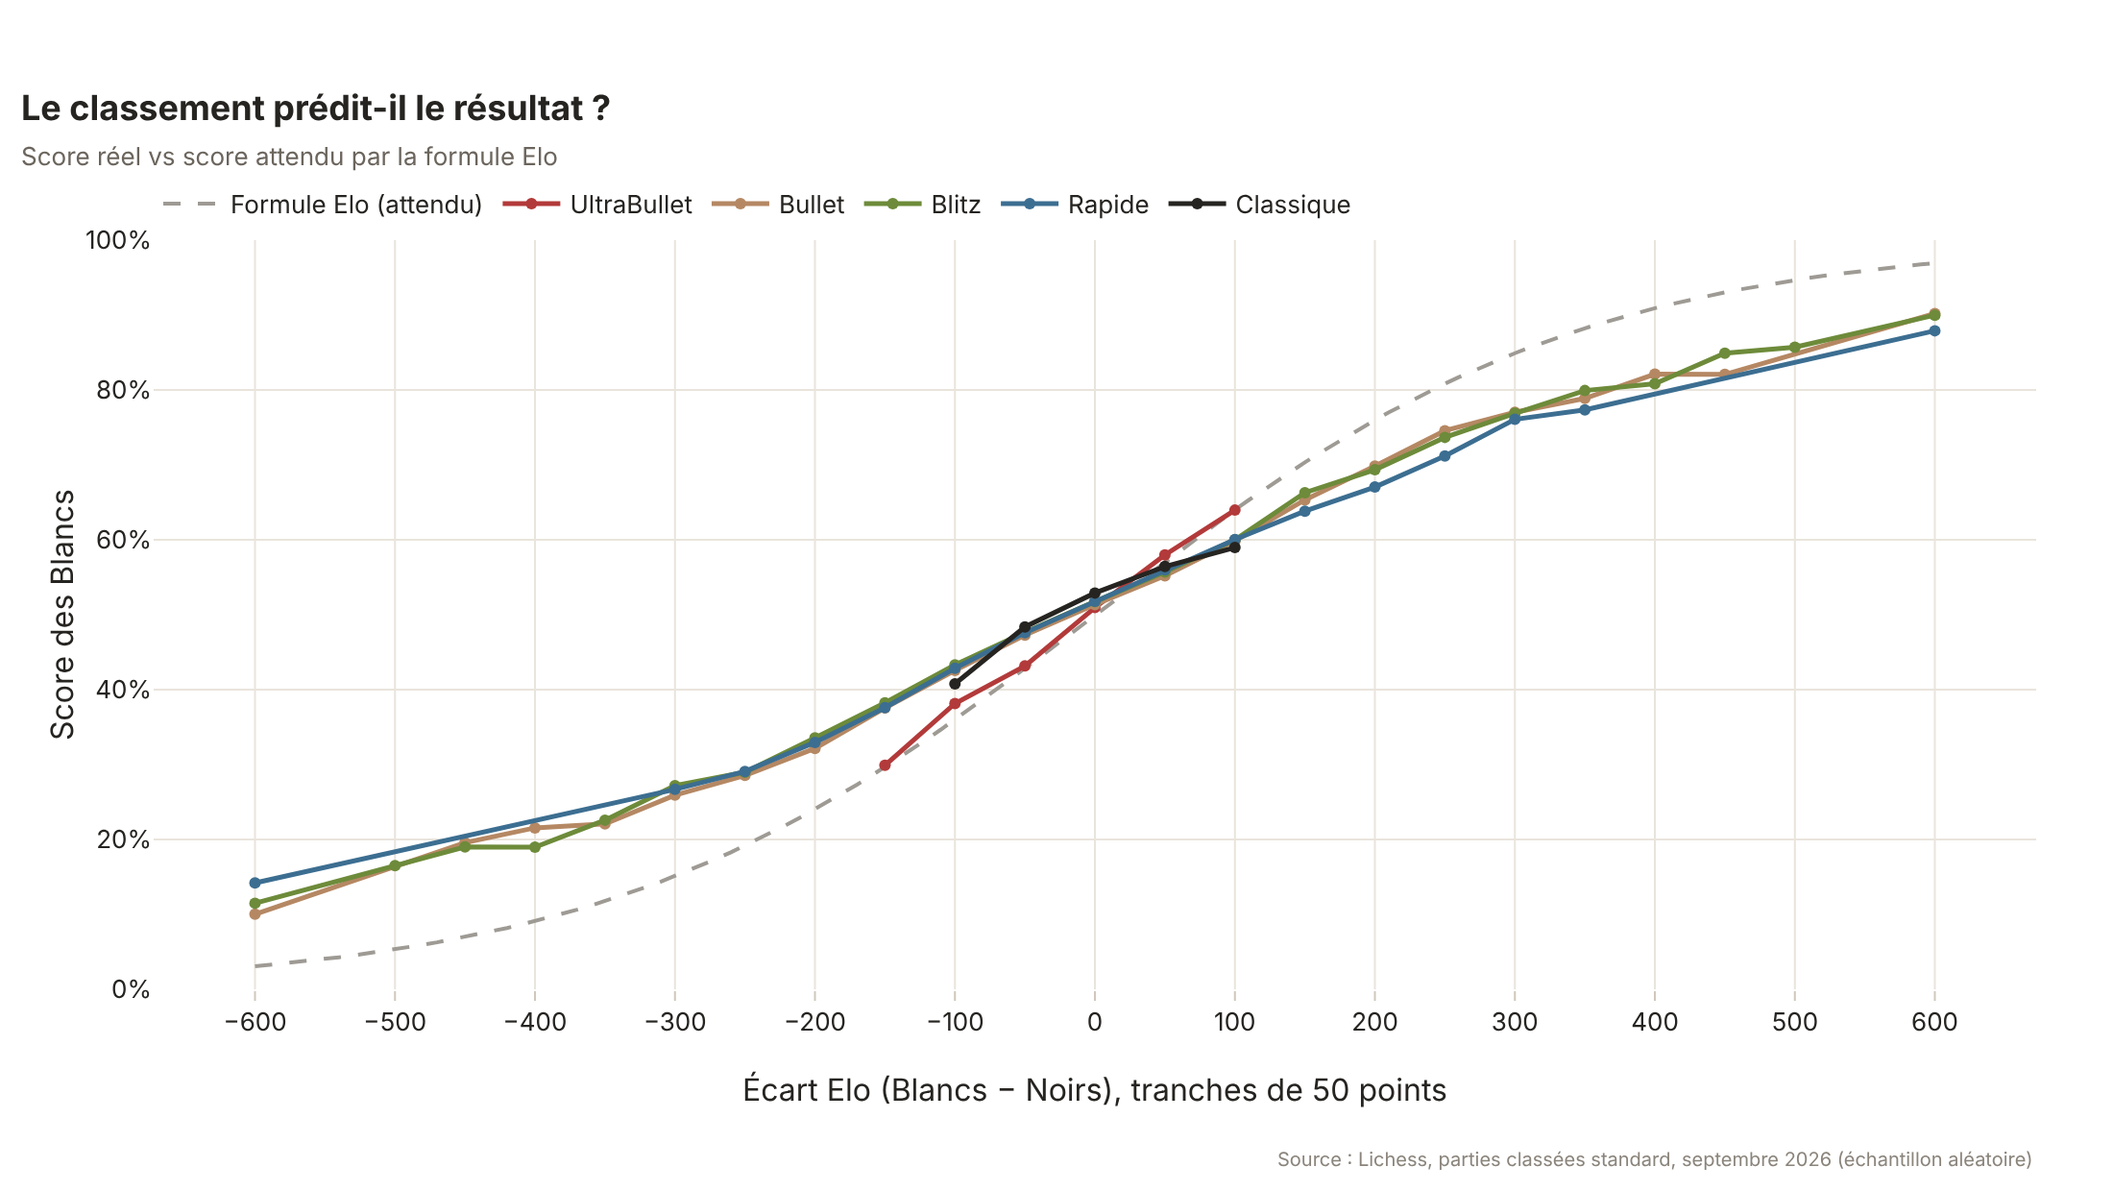
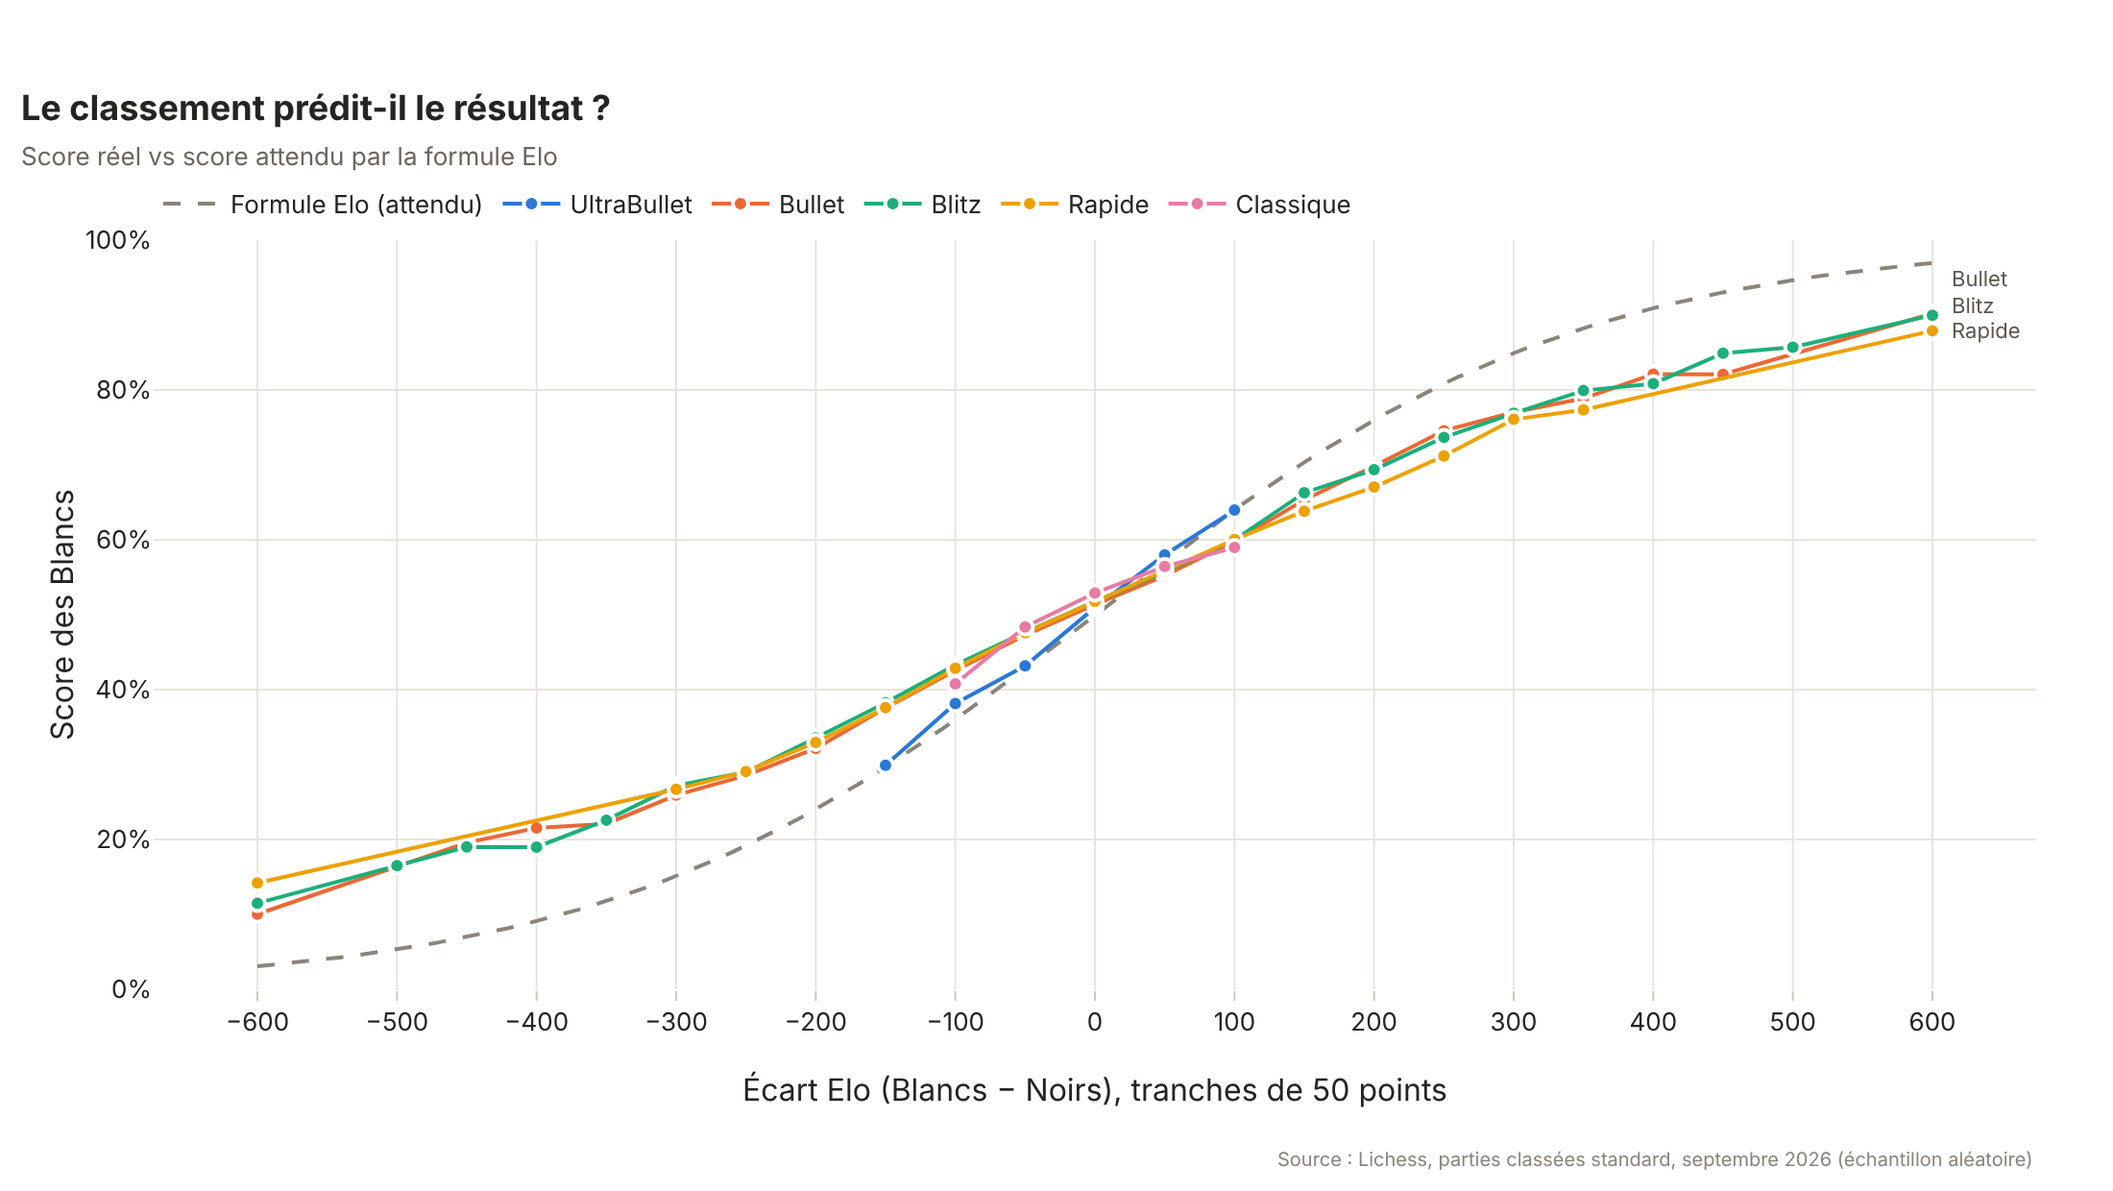
feat: switch charts to a colour-blind-safe palette without dual axes

diff --git a/src/eloscope/charts.py b/src/eloscope/charts.py
@@ -10,22 +10,26 @@ import plotly.graph_objects as go
 import plotly.io as pio
 from plotly.subplots import make_subplots
 
-# Palette shared with powerbi/theme.json
-INK = "#262421"  # near-black (Black pieces / text)
-DARK_SQUARE = "#B58863"  # Lichess dark square
-LIGHT_SQUARE = "#F0D9B5"  # Lichess light square
-GREEN = "#6D8B3A"  # accent
-GREY = "#9E9A94"  # draws
-RED = "#B33A3A"  # losses on time / alerts
-BLUE = "#3C6E91"  # secondary series
-PAPER = "#FFFFFF"
-GRID = "#E9E4DC"
+# Colours. Chrome (paper, ink, grid) carries the chessboard identity; data colours are checked
+# for colour-vision deficiency, lightness band and contrast (see docs/design.md).
+INK = "#262421"  # primary text
+INK_2 = "#5c574f"  # secondary text
+MUTED = "#8a847b"  # axis labels, notes, reference lines
+DARK_SQUARE = "#b58863"  # Lichess dark square: single-series accent
+LIGHT_SQUARE = "#f0d9b5"  # Lichess light square: chrome only, never a data colour
+PAPER = "#ffffff"
+GRID = "#e9e4dc"
 
-RESULT_COLORS = {"Victoire Blancs": DARK_SQUARE, "Nulle": GREY, "Victoire Noirs": INK}
-TC_COLORS = {"UltraBullet": RED, "Bullet": DARK_SQUARE, "Blitz": GREEN, "Rapide": BLUE, "Classique": INK}
-BAND_COLORS = {"< 1200": LIGHT_SQUARE, "1200-1599": DARK_SQUARE, "1600-1999": GREEN, "2000+": INK}
-SEQUENTIAL = [[0.0, "#FBF6EE"], [0.35, LIGHT_SQUARE], [0.7, DARK_SQUARE], [1.0, "#5C3B22"]]
-DIVERGING = [[0.0, BLUE], [0.5, "#F7F4EF"], [1.0, DARK_SQUARE]]
+# Categorical slots, fixed order (never cycled). Time controls take them by speed.
+SERIES = ["#2a78d6", "#eb6834", "#1baf7a", "#eda100", "#e87ba4"]
+TC_COLORS = dict(zip(["UltraBullet", "Bullet", "Blitz", "Rapide", "Classique"], SERIES))
+# Results are a polarity: White pole (warm) / neutral draw / Black pole (cool).
+WHITE_POLE, DRAW_MID, BLACK_POLE = "#c8732a", "#d3d1cb", "#2a5a9a"
+RESULT_COLORS = {"Victoire Blancs": WHITE_POLE, "Nulle": DRAW_MID, "Victoire Noirs": BLACK_POLE}
+# Elo bands are ordered: one brown ramp, light to dark (ordinal check passed).
+BAND_COLORS = dict(zip(["< 1200", "1200-1599", "1600-1999", "2000+"], ["#d2a679", "#b07d4f", "#86562d", "#5a3518"]))
+SEQUENTIAL = [[0.0, "#f7f1e8"], [0.35, "#d2a679"], [0.7, "#86562d"], [1.0, "#4a2b12"]]
+DIVERGING = [[0.0, BLACK_POLE], [0.5, "#f0efec"], [1.0, WHITE_POLE]]  # < 50 % Black, > 50 % White
 
 pio.templates["eloscope"] = go.layout.Template(
     layout=go.Layout(
@@ -33,7 +37,7 @@ pio.templates["eloscope"] = go.layout.Template(
         title=dict(font=dict(size=18, color=INK), x=0.01, xanchor="left"),
         paper_bgcolor=PAPER,
         plot_bgcolor=PAPER,
-        colorway=[DARK_SQUARE, INK, GREEN, BLUE, RED, GREY],
+        colorway=SERIES,
         xaxis=dict(gridcolor=GRID, linecolor="#CFC8BC", zeroline=False, ticks="outside", tickcolor="#CFC8BC"),
         yaxis=dict(gridcolor=GRID, linecolor="#CFC8BC", zeroline=False),
         legend=dict(bgcolor="rgba(0,0,0,0)", orientation="h", yanchor="bottom", y=1.01, xanchor="left", x=0),
@@ -62,6 +66,25 @@ def save(fig: go.Figure, path: Path, width: int = 1100, height: int = 620) -> Pa
     return path
 
 
+def _end_labels(
+    fig: go.Figure,
+    points: list[tuple[float, float, str]],
+    min_gap: float,
+    row: int | None = None,
+    col: int | None = None,
+) -> None:
+    """Direct labels at line ends (identity never relies on colour alone), nudged apart vertically."""
+    kwargs = {"row": row, "col": col} if row else {}
+    placed: list[float] = []
+    for x, y, text in sorted(points, key=lambda p: p[1]):
+        y_label = max([y, *[p + min_gap for p in placed]]) if placed else y
+        placed.append(y_label)
+        fig.add_annotation(
+            x=x, y=y_label, text=text, showarrow=False, xanchor="left", xshift=8,
+            font=dict(size=11, color=INK_2), **kwargs,
+        )  # fmt: skip
+
+
 def results_by_band(df: pd.DataFrame) -> go.Figure:
     """Stacked 100 % bars of White win / draw / Black win per Elo band."""
     fig = go.Figure()
@@ -72,40 +95,43 @@ def results_by_band(df: pd.DataFrame) -> go.Figure:
     ]:
         fig.add_bar(
             x=df["elo_band"], y=df[col], name=label, marker_color=RESULT_COLORS[label],
-            text=[f"{v:.1%}" for v in df[col]], textposition="inside",
-            insidetextfont=dict(color="white" if label != "Nulle" else INK),
+            marker_line=dict(color=PAPER, width=2), text=[f"{v:.1%}" for v in df[col]], textposition="inside",
+            insidetextfont=dict(color=INK if label == "Nulle" else "white"),
+            hovertemplate=f"{label}<br>%{{x}} : %{{y:.1%}}<extra></extra>",
         )  # fmt: skip
     fig.update_layout(
-        barmode="stack", yaxis=dict(tickformat=".0%", title="Part des parties"), xaxis_title="Tranche Elo"
-    )
+        barmode="stack", bargap=0.35, uniformtext=dict(minsize=12, mode="show"),
+        yaxis=dict(tickformat=".0%", title="Part des parties"), xaxis_title="Tranche Elo",
+    )  # fmt: skip
     return _finish(fig, "Répartition des résultats par niveau", "Les Blancs gagnent plus souvent à tous les niveaux")
 
 
 def top_openings(df: pd.DataFrame, bands: list[str], top: int = 10) -> go.Figure:
-    """Top opening families per band: popularity (bar length) coloured by White's score."""
+    """Top opening families per band: popularity (bar length) coloured by White's score around 50 %."""
     fig = make_subplots(
         rows=2, cols=2, subplot_titles=[f"Elo {b}" for b in bands], horizontal_spacing=0.3, vertical_spacing=0.1
     )
-    vmin, vmax = df["white_score"].min(), df["white_score"].max()
+    spread = float((df["white_score"] - 0.5).abs().max())
     for i, band in enumerate(bands):
         sub = df[df["elo_band"] == band].nsmallest(top, "popularity_rank").iloc[::-1]
         fig.add_bar(
             x=sub["share_of_band"], y=sub["opening_family"], orientation="h", row=i // 2 + 1, col=i % 2 + 1,
-            marker=dict(color=sub["white_score"], colorscale=SEQUENTIAL, cmin=vmin, cmax=vmax,
+            marker=dict(color=sub["white_score"], colorscale=DIVERGING, cmin=0.5 - spread, cmax=0.5 + spread,
                         colorbar=dict(title="Score<br>Blancs", tickformat=".0%") if i == 0 else None,
-                        showscale=i == 0),
+                        showscale=i == 0, line=dict(color=PAPER, width=2)),
             text=[f"{s:.1%}" for s in sub["share_of_band"]], textposition="outside", showlegend=False,
-            hovertemplate="%{y}<br>%{x:.1%} des parties<extra></extra>",
+            customdata=sub["white_score"],
+            hovertemplate="%{y}<br>%{x:.1%} des parties<br>score des Blancs %{customdata:.1%}<extra></extra>",
         )  # fmt: skip
     fig.update_xaxes(
         tickformat=".0%", showgrid=False, showticklabels=False, range=[0, df["share_of_band"].max() * 1.22]
     )
     fig.update_yaxes(tickfont=dict(size=11), automargin=True)
-    fig.update_layout(margin=dict(l=190))
+    fig.update_layout(margin=dict(l=190), bargap=0.25)
     return _finish(
         fig,
         "Ouvertures les plus jouées par niveau",
-        "Longueur = part des parties de la tranche ; couleur = score des Blancs",
+        "Longueur = part des parties de la tranche ; couleur = score des Blancs (brun > 50 %, bleu < 50 %)",
     )
 
 
@@ -123,6 +149,7 @@ def white_score_heatmap(df: pd.DataFrame) -> go.Figure:
         [f"<b>{v:.1%}</b><br>n = {n:,.0f}".replace(",", " ") if pd.notna(v) else "n < min" for v, n in zip(rv, rn)]
         for rv, rn in zip(pivot.values, counts.values)
     ]
+    spread = float(np.nanmax(np.abs(pivot.values - 0.5)))
     fig = go.Figure(
         go.Heatmap(
             z=pivot.values,
@@ -130,19 +157,21 @@ def white_score_heatmap(df: pd.DataFrame) -> go.Figure:
             y=pivot.index,
             text=text,
             texttemplate="%{text}",
-            textfont=dict(size=14),
+            textfont=dict(size=14, color=INK),
             colorscale=DIVERGING,
-            zmid=0.5,
+            zmin=0.5 - spread,
+            zmax=0.5 + spread,
             colorbar=dict(title="Score", tickformat=".0%"),
             xgap=2,
             ygap=2,
+            hovertemplate="%{y} · %{x}<br>score des Blancs %{z:.1%}<extra></extra>",
         )  # fmt: skip
     )
     fig.update_layout(xaxis_title="Cadence", yaxis=dict(title=dict(text="Tranche Elo", standoff=18), automargin=True))
     return _finish(
         fig,
         "Score moyen des Blancs par niveau et cadence",
-        "50 % = pas d'avantage ; cellules sous le minimum d'échantillon masquées",
+        "50 % = pas d'avantage ; brun = avantage Blancs ; cellules sous le minimum d'échantillon masquées",
     )
 
 
@@ -152,13 +181,20 @@ def calibration(df: pd.DataFrame) -> go.Figure:
     gaps = np.arange(-600, 601, 10)
     fig.add_scatter(
         x=gaps, y=1 / (1 + 10 ** (-gaps / 400)), name="Formule Elo (attendu)", mode="lines",
-        line=dict(color=GREY, dash="dash", width=2),
+        line=dict(color=MUTED, dash="dash", width=2), hovertemplate="écart %{x}<br>attendu %{y:.1%}<extra></extra>",
     )  # fmt: skip
+    ends: list[tuple[float, float, str]] = []
     for tc, sub in df.groupby("time_control", sort=False):
         fig.add_scatter(
             x=sub["rating_gap_bucket"], y=sub["actual_score"], name=tc, mode="lines+markers",
-            line=dict(color=TC_COLORS.get(tc, INK), width=2.5), marker=dict(size=6),
+            line=dict(color=TC_COLORS.get(tc, INK), width=2), marker=dict(size=8, line=dict(color=PAPER, width=2)),
+            hovertemplate=f"{tc}<br>écart %{{x}}<br>score réel %{{y:.1%}}<extra></extra>",
         )  # fmt: skip
+        last = sub.iloc[-1]
+        ends.append((last["rating_gap_bucket"], last["actual_score"], tc))
+    right_edge = max(x for x, _, _ in ends)
+    # lines stopping early (rare time controls) would be labelled on top of others: the legend covers them
+    _end_labels(fig, [p for p in ends if p[0] == right_edge], min_gap=0.035)
     fig.update_layout(
         xaxis=dict(title="Écart Elo (Blancs − Noirs), tranches de 50 points", dtick=100),
         yaxis=dict(title="Score des Blancs", tickformat=".0%", range=[0, 1]),
@@ -173,12 +209,14 @@ def lost_on_time(df: pd.DataFrame, bands: list[str]) -> go.Figure:
         sub = df[df["elo_band"] == band]
         fig.add_bar(
             x=sub["time_control"], y=sub["lost_on_time_rate"], name=f"Elo {band}", marker_color=BAND_COLORS[band],
-            marker_line=dict(color=INK, width=0.6), text=[f"{v:.0%}" for v in sub["lost_on_time_rate"]],
-            textposition="outside",
+            marker_line=dict(color=PAPER, width=2), text=[f"{v:.0%}" for v in sub["lost_on_time_rate"]],
+            textposition="outside", textfont=dict(color=INK_2),
+            hovertemplate=f"Elo {band}<br>%{{x}} : %{{y:.1%}} perdues au temps<extra></extra>",
         )  # fmt: skip
     order = [c for c in TC_COLORS if c in set(df["time_control"])]
     fig.update_layout(
         barmode="group",
+        bargap=0.25,
         yaxis=dict(title="Part des parties perdues au temps", tickformat=".0%"),
         xaxis=dict(title="Cadence", categoryorder="array", categoryarray=order),
     )
@@ -190,24 +228,25 @@ def lost_on_time(df: pd.DataFrame, bands: list[str]) -> go.Figure:
 def time_used_deciles(df: pd.DataFrame) -> go.Figure:
     """Player score by decile of clock share used in the first 10 moves, per time control."""
     fig = make_subplots(
-        rows=1, cols=2, subplot_titles=["Score du joueur", "Part des parties perdues au temps"], horizontal_spacing=0.1
+        rows=1, cols=2, subplot_titles=["Score du joueur", "Part des parties perdues au temps"], horizontal_spacing=0.12
     )
+    ends: dict[int, list[tuple[float, float, str]]] = {1: [], 2: []}
     for tc, sub in df.groupby("time_control", sort=False):
         color = TC_COLORS.get(tc, INK)
-        fig.add_scatter(
-            x=sub["decile"],
-            y=sub["score"],
-            name=tc,
-            mode="lines+markers",
-            line=dict(color=color, width=2.5),
-            row=1,
-            col=1,
-        )
-        fig.add_scatter(
-            x=sub["decile"], y=sub["lost_on_time_rate"], name=tc, mode="lines+markers",
-            line=dict(color=color, width=2.5), showlegend=False, row=1, col=2,
-        )  # fmt: skip
-    fig.update_xaxes(title="Décile de temps consommé (1 = le plus rapide)", dtick=1)
+        for col, metric in ((1, "score"), (2, "lost_on_time_rate")):
+            fig.add_scatter(
+                x=sub["decile"], y=sub[metric], name=tc, mode="lines+markers", legendgroup=tc, showlegend=col == 1,
+                line=dict(color=color, width=2), marker=dict(size=8, line=dict(color=PAPER, width=2)),
+                hovertemplate=f"{tc}<br>décile %{{x}} : %{{y:.1%}}<extra></extra>", row=1, col=col,
+            )  # fmt: skip
+            last = sub.iloc[-1]
+            ends[col].append((last["decile"], last[metric], tc))
+    for col, points in ends.items():
+        span = max(p[1] for p in points) - min(p[1] for p in points)
+        _end_labels(fig, points, min_gap=max(span, 0.1) * 0.08, row=1, col=col)
+    fig.update_xaxes(
+        title="Décile de temps consommé (1 = le plus rapide)", tickvals=list(range(1, 11)), range=[0.5, 11.8]
+    )
     fig.update_yaxes(tickformat=".0%")
     fig.update_layout(legend=dict(y=-0.2, yanchor="top"), margin=dict(b=150))
     return _finish(
@@ -228,8 +267,11 @@ def activity_heatmap(df: pd.DataFrame) -> go.Figure:
             x=pivot.columns,
             y=pivot.index,
             colorscale=SEQUENTIAL,
+            xgap=2,
+            ygap=2,
             colorbar=dict(title="Parties<br>par jour"),
-        )
+            hovertemplate="%{y} %{x}h<br>%{z:,.0f} parties par jour<extra></extra>",
+        )  # fmt: skip
     )
     fig.update_layout(xaxis=dict(title="Heure (UTC)", dtick=1), yaxis=dict(title="", autorange="reversed"))
     return _finish(
@@ -238,23 +280,27 @@ def activity_heatmap(df: pd.DataFrame) -> go.Figure:
 
 
 def results_by_hour(df: pd.DataFrame) -> go.Figure:
-    """Lost-on-time rate (left axis) and White score (right axis, deliberately wide range) by UTC hour."""
-    fig = make_subplots(specs=[[{"secondary_y": True}]])
-    fig.add_scatter(
-        x=df["hour"], y=df["lost_on_time_rate"], name="Parties perdues au temps", mode="lines+markers",
-        line=dict(color=RED, width=3), marker=dict(size=7),
+    """Two stacked panels sharing the hour axis (never a dual-axis chart): losses on time, White score."""
+    fig = make_subplots(
+        rows=2, cols=1, shared_xaxes=True, vertical_spacing=0.12,
+        subplot_titles=["Part des parties perdues au temps", "Score des Blancs (axe de 45 % à 55 %)"],
     )  # fmt: skip
     fig.add_scatter(
-        x=df["hour"], y=df["white_score"], name="Score des Blancs (axe de droite)", mode="lines+markers",
-        line=dict(color=INK, width=2, dash="dot"), secondary_y=True,
+        x=df["hour"], y=df["lost_on_time_rate"], name="Perdues au temps", mode="lines+markers", showlegend=False,
+        line=dict(color=DARK_SQUARE, width=2), marker=dict(size=8, line=dict(color=PAPER, width=2)),
+        hovertemplate="%{x}h : %{y:.1%} perdues au temps<extra></extra>", row=1, col=1,
+    )  # fmt: skip
+    fig.add_scatter(
+        x=df["hour"], y=df["white_score"], name="Score des Blancs", mode="lines+markers", showlegend=False,
+        line=dict(color=WHITE_POLE, width=2), marker=dict(size=8, line=dict(color=PAPER, width=2)),
+        hovertemplate="%{x}h : score des Blancs %{y:.1%}<extra></extra>", row=2, col=1,
     )  # fmt: skip
     low, high = df["lost_on_time_rate"].min(), df["lost_on_time_rate"].max()
-    pad = (high - low) * 0.6
-    fig.update_yaxes(title_text="Perdues au temps", tickformat=".0%", range=[low - pad, high + pad], secondary_y=False)
-    fig.update_yaxes(
-        title_text="Score des Blancs", tickformat=".0%", range=[0.45, 0.55], secondary_y=True, showgrid=False
-    )
-    fig.update_xaxes(title_text="Heure (UTC)", dtick=1, range=[-0.5, 23.5])
+    pad = (high - low) * 0.5
+    fig.update_yaxes(tickformat=".0%", range=[low - pad, high + pad], row=1, col=1)
+    fig.update_yaxes(tickformat=".0%", range=[0.45, 0.55], row=2, col=1)
+    fig.update_xaxes(dtick=1, range=[-0.5, 23.5])
+    fig.update_xaxes(title_text="Heure (UTC)", row=2, col=1)
     return _finish(
         fig, "Résultats selon l'heure de la partie",
         "Les défaites au temps augmentent la nuit ; le score des Blancs ne bouge pas (toutes cadences, UTC)",
@@ -264,17 +310,21 @@ def results_by_hour(df: pd.DataFrame) -> go.Figure:
 def cramers_v(df: pd.DataFrame) -> go.Figure:
     """Cramér's V (opening family x result) per Elo band."""
     fig = go.Figure(go.Bar(
-        x=df["elo_band"], y=df["cramers_v"], marker_color=DARK_SQUARE,
+        x=df["elo_band"], y=df["cramers_v"], marker_color=DARK_SQUARE, textfont=dict(color=INK_2),
         text=[f"V = {v:.3f}<br>p = {p:.1e}" for v, p in zip(df["cramers_v"], df["p_value"])], textposition="outside",
+        hovertemplate="%{x}<br>V de Cramér %{y:.3f}<extra></extra>",
     ))  # fmt: skip
     fig.add_hline(
         y=0.1,
-        line=dict(color=RED, dash="dot"),
+        line=dict(color=MUTED, dash="dot"),
         annotation_text="Seuil d'effet « faible » (0,1)",
         annotation_position="top left",
+        annotation_font_color=INK_2,
     )
     fig.update_layout(
-        yaxis=dict(title="V de Cramér", range=[0, max(0.12, df["cramers_v"].max() * 1.4)]), xaxis_title="Tranche Elo"
+        bargap=0.45,
+        yaxis=dict(title="V de Cramér", range=[0, max(0.12, df["cramers_v"].max() * 1.4)]),
+        xaxis_title="Tranche Elo",
     )
     return _finish(
         fig,
@@ -289,12 +339,18 @@ def odds_ratios(df: pd.DataFrame) -> go.Figure:
     fig = go.Figure(go.Scatter(
         x=df["odds_ratio"], y=df["label"], mode="markers",
         error_x=dict(type="data", symmetric=False, array=df["or_high"] - df["odds_ratio"],
-                     arrayminus=df["odds_ratio"] - df["or_low"], color=INK, thickness=1.5),
-        marker=dict(size=10, color=[GREEN if v > 1 else RED for v in df["odds_ratio"]]),
+                     arrayminus=df["odds_ratio"] - df["or_low"], color=INK_2, thickness=2),
+        marker=dict(size=10, color=[WHITE_POLE if v > 1 else BLACK_POLE for v in df["odds_ratio"]],
+                    line=dict(color=PAPER, width=2)),
+        hovertemplate="%{y}<br>odds ratio %{x:.3f}<extra></extra>",
     ))  # fmt: skip
-    fig.add_vline(x=1, line=dict(color=GREY, dash="dash"))
+    fig.add_vline(x=1, line=dict(color=MUTED, dash="dash"))
     fig.update_layout(
         xaxis=dict(title="Odds ratio (échelle log) — > 1 : favorise une victoire des Blancs", type="log"),
         margin=dict(l=300),
     )
-    return _finish(fig, "Ce qui fait gagner les Blancs (régression logistique)", "Parties décisives ; IC 95 %")
+    return _finish(
+        fig,
+        "Ce qui fait gagner les Blancs (régression logistique)",
+        "Parties décisives ; IC 95 % ; brun = favorise les Blancs, bleu = favorise les Noirs",
+    )
